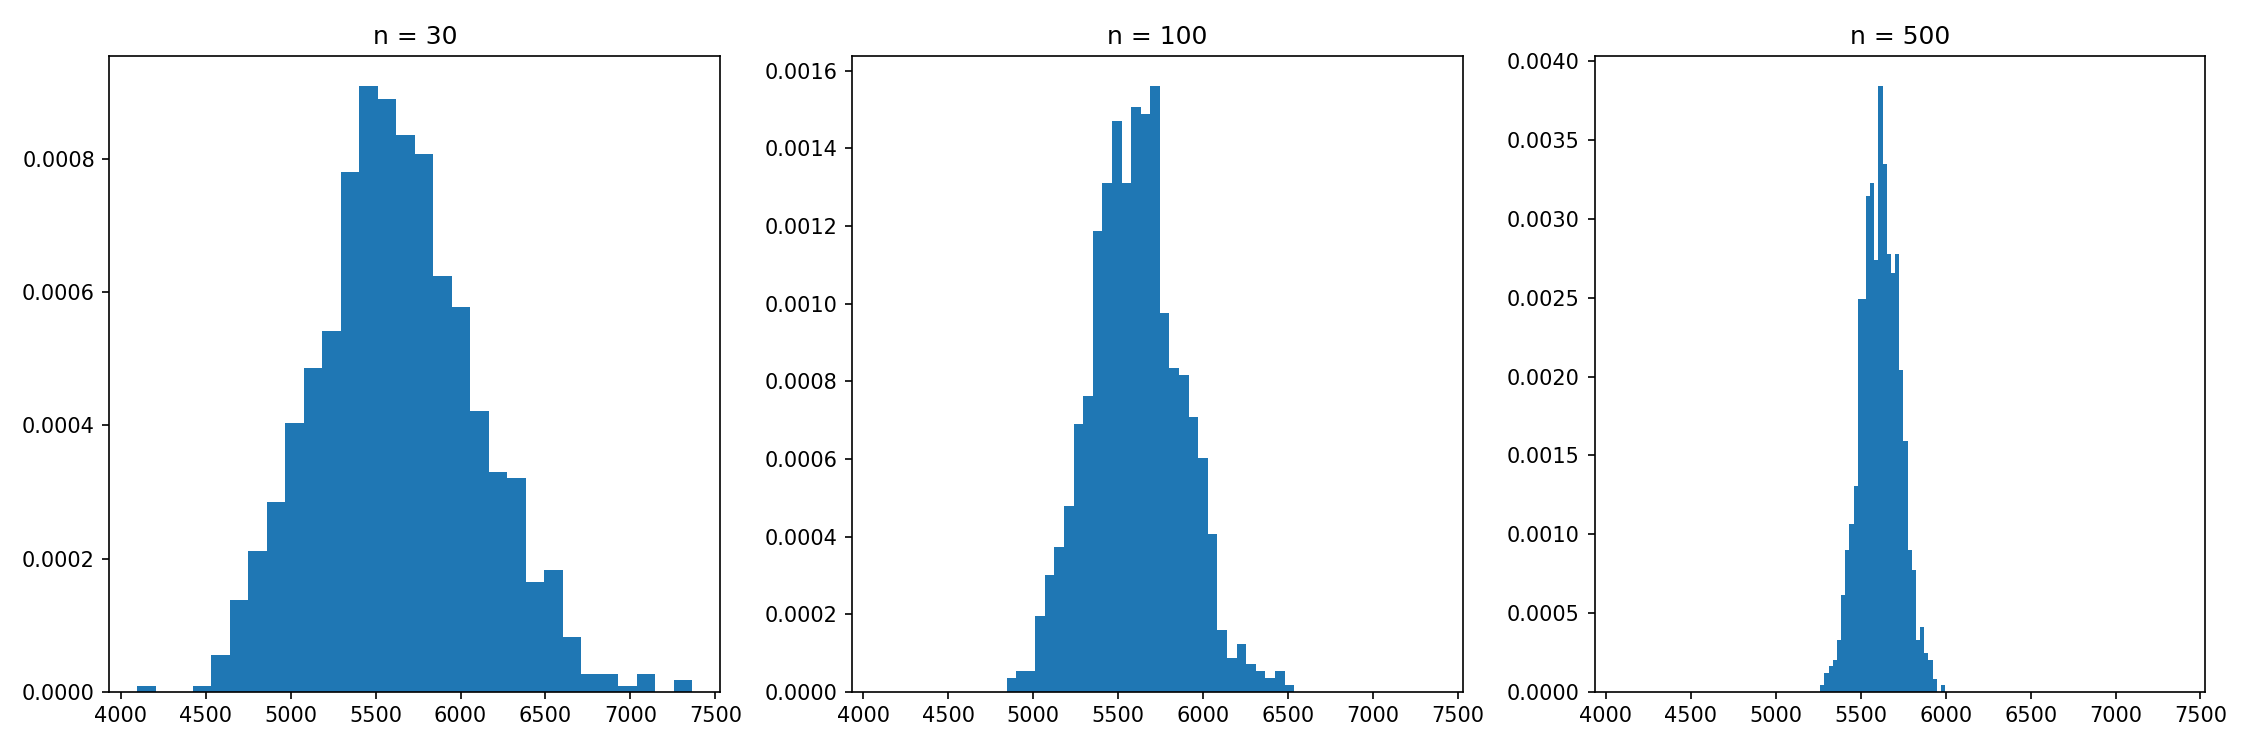
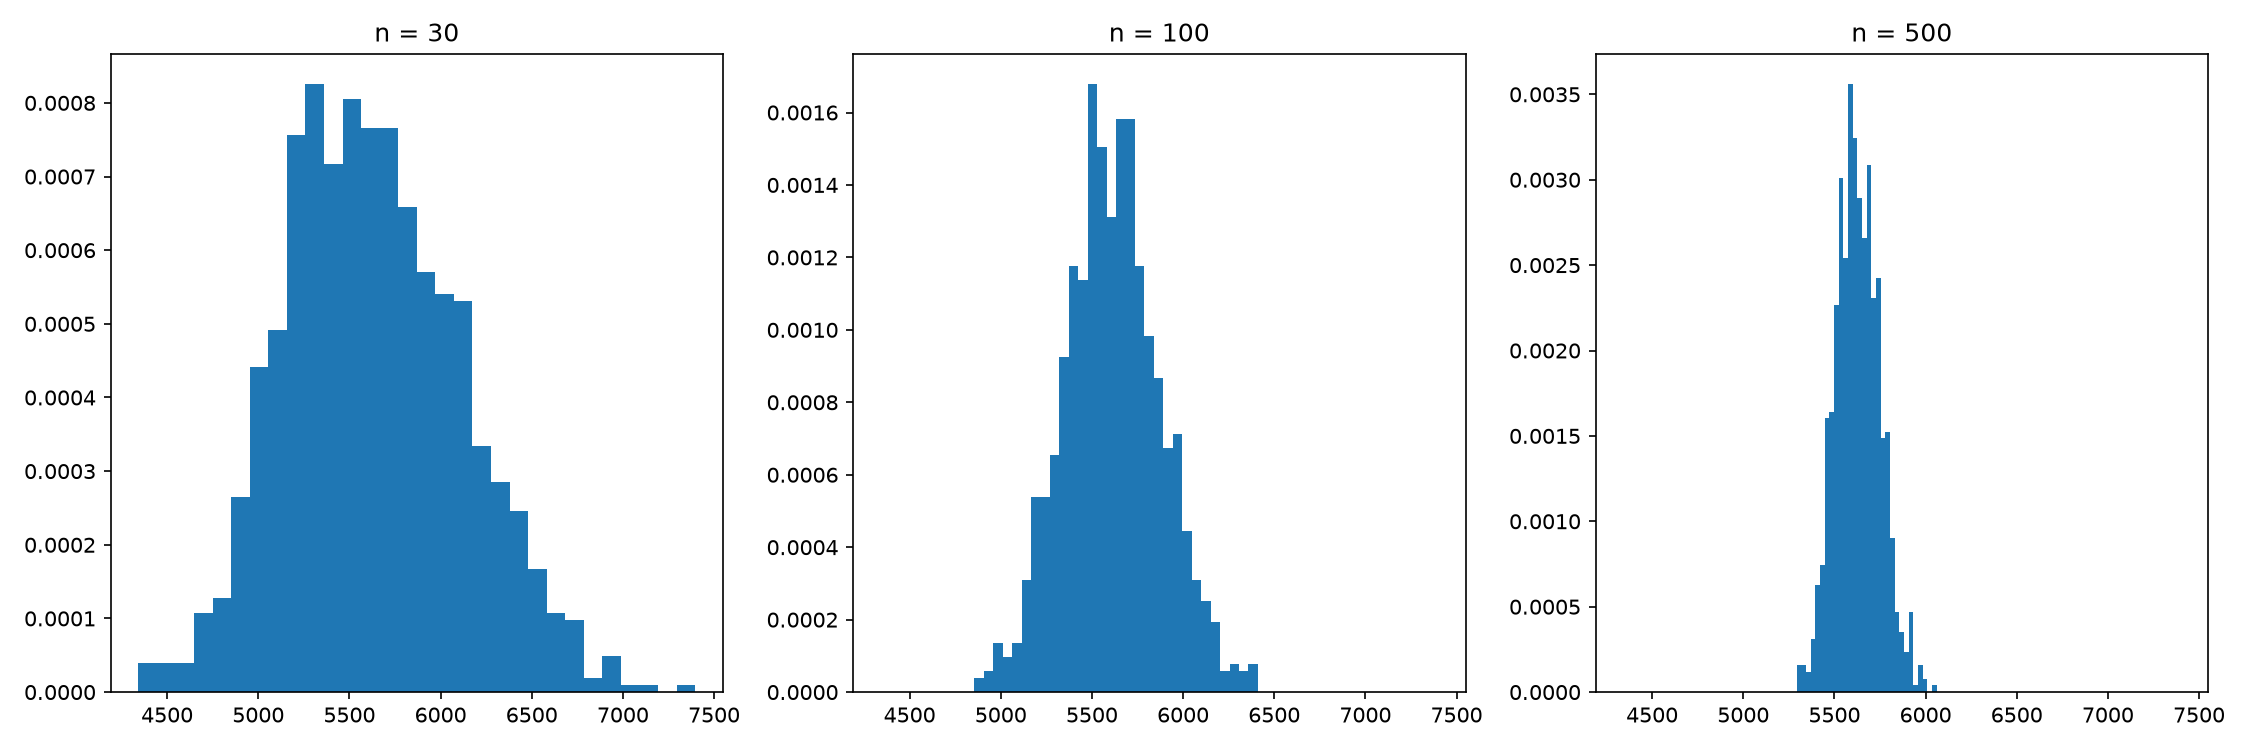
Seed the phase 3 sampling so runs are reproducible
draw_sample and confidence_intervals each build their own
np.random.default_rng(42) and pass it to every .sample() call. The
generator has to live outside the loop: passing random_state=42
directly would draw the same sample 1000 times instead of 1000
reproducible samples. Two consecutive runs now print identical output.

README reports the seeded coverage (94.2 / 93.8 / 94.5) for what it is
-- three figures within Monte Carlo error of each other -- and backs
the systematic undercoverage at n=30 with six independent series
(93.53% mean, range 93.0-93.9) instead of a single run.

Claude-Session: https://claude.ai/code/session_01P6qW9VxkdxpqBFZCDLLJPU

diff --git a/milano_analysis.py b/milano_analysis.py
@@ -553,22 +553,25 @@ def draw_sample(df_clean):
 
     population_std = df_clean['price_per_mq'].std(ddof=0)
 
+    # same seed at every run, but the generator advances at every draw
+    rng = np.random.default_rng(42)
+
     sample_means_30 = []
     sample_means_100 = []
     sample_means_500 = []
 
     for i in range(1000):
-        sample = df_clean.sample(30, replace=False)
+        sample = df_clean.sample(30, replace=False, random_state=rng)
         sample_mean = sample['price_per_mq'].mean()
         sample_means_30.append(sample_mean)
 
     for i in range(1000):
-        sample = df_clean.sample(100, replace=False)
+        sample = df_clean.sample(100, replace=False, random_state=rng)
         sample_mean = sample['price_per_mq'].mean()
         sample_means_100.append(sample_mean)
 
     for i in range(1000):
-        sample = df_clean.sample(500, replace=False)
+        sample = df_clean.sample(500, replace=False, random_state=rng)
         sample_mean = sample['price_per_mq'].mean()
         sample_means_500.append(sample_mean)
 
@@ -614,6 +617,9 @@ def confidence_intervals(df_clean):
     n = [30, 100, 500]
     population_mean = df_clean['price_per_mq'].mean()
 
+    # same seed at every run, but the generator advances at every draw
+    rng = np.random.default_rng(42)
+
     intervals_30 = []
     intervals_100 = []
     intervals_500 = []
@@ -622,7 +628,7 @@ def confidence_intervals(df_clean):
         t_critical = stats.t.ppf(1 - alpha / 2, df=sample_size - 1)
 
         for i in range(1000):
-            sample = df_clean.sample(sample_size, replace=False)
+            sample = df_clean.sample(sample_size, replace=False, random_state=rng)
             sample_mean = sample['price_per_mq'].mean()
             sample_std = sample['price_per_mq'].std()
 

diff --git a/README.md b/README.md
@@ -167,25 +167,37 @@ Una nota di metodo: con n = 16.346 i test formali di normalità (Shapiro-Wilk, D
 
 | n | SE empirico | σ/√n teorico |
 |---|---|---|
-| 30 | € 478,0 | € 482,8 |
-| 100 | € 259,2 | € 264,4 |
-| 500 | € 111,9 | € 118,3 |
+| 30 | € 482,82 | € 482,78 |
+| 100 | € 262,73 | € 264,43 |
+| 500 | € 120,82 | € 118,26 |
 
-Le due colonne coincidono a meno di pochi euro, e la dispersione si dimezza passando da n = 100 a n = 500 quasi esattamente del fattore √5 previsto — su una popolazione con asimmetria 1,83, dove la singola osservazione non è affatto normale. L'istogramma delle medie campionarie è invece simmetrico e campanulare già a n = 30: è il CLT che si vede, non che si cita.
+Le due colonne coincidono a meno di pochi euro — a n = 30 le prime tre cifre sono le stesse — e la dispersione si riduce passando da n = 100 a n = 500 del fattore √5 previsto, su una popolazione con asimmetria 1,83 dove la singola osservazione non è affatto normale. L'istogramma delle medie campionarie è invece simmetrico e campanulare già a n = 30: è il CLT che si vede, non che si cita.
 
-Lo scarto sistematico del SE empirico verso il basso (sempre un po' sotto il teorico, e la cosa si accentua a n = 500) non è rumore: i campioni sono estratti **senza reinserimento** da una popolazione finita, quindi il termine di riferimento esatto è σ/√n corretto per il fattore di popolazione finita √((N−n)/(N−1)), che a n = 500 porta il valore teorico da € 118,3 a € 116,4. Il confronto resta impostato sulla formula standard, perché è quella la formula di cui la fase discute.
+Un termine di confronto più esatto esisterebbe: i campioni sono estratti **senza reinserimento** da una popolazione finita, quindi la formula corretta è σ/√n moltiplicata per il fattore di popolazione finita √((N−n)/(N−1)), che a n = 500 porta il valore teorico da € 118,26 a € 116,40. La correzione è trascurabile perché n resta piccolo rispetto a N = 16.346, e il confronto è lasciato sulla formula standard perché è quella di cui la fase discute.
 
 **Copertura degli intervalli**
 
 | n | copertura osservata |
 |---|---|
-| 30 | ~93% |
-| 100 | ~94-95% |
-| 500 | ~95-96% |
+| 30 | **94,2%** |
+| 100 | **93,8%** |
+| 500 | **94,5%** |
 
-Il risultato più istruttivo della fase è la riga n = 30. La copertura nominale è 95%, ma a n = 30 gli intervalli ne coprono sistematicamente **~93%** — verificato su ripetizioni indipendenti, non è un caso singolo. L'intervallo *t* assume una popolazione normale; qui la popolazione ha asimmetria 1,83 e a n = 30 il CLT non ha ancora finito il suo lavoro, così l'intervallo mantiene meno di quanto promette. A n = 100 e n = 500 la copertura risale a ~95%, come deve. Il livello di confidenza è una proprietà **della procedura sotto le sue assunzioni**, non una garanzia che valga a qualunque numerosità: quando l'assunzione è violata la procedura sotto-copre, e il modo di accorgersene è misurarlo.
+Tutte e tre stanno sotto il 95% nominale, ma la lettura corretta di questa tabella richiede di sapere quanto vale il suo margine d'errore. Ogni copertura è essa stessa una stima, ricavata da 1.000 ripetizioni: il suo errore Monte Carlo vale circa **±0,7 punti**. Le tre cifre sono quindi compatibili sia fra loro sia con il 95%, e **da questa singola esecuzione non si può concludere granché** — men che meno che n = 100 copra peggio di n = 30, che è quello che la tabella sembra dire.
 
-**Nota sulla riproducibilità:** non è fissato alcun seme casuale, quindi i numeri di copertura cambiano di qualche decimo a ogni esecuzione (l'errore Monte Carlo su 1.000 ripetizioni vale circa ±0,7 punti). I valori qui sopra sono riportati come intervalli per questo motivo. Un `random_state` fisso renderebbe la tabella riproducibile alla cifra.
+L'andamento vero si vede solo ripetendo l'intero esperimento. Su **sei serie indipendenti** da 1.000 intervalli ciascuna la copertura media risulta:
+
+| n | media di 6 serie | intervallo osservato |
+|---|---|---|
+| 30 | **93,53%** | 93,0 – 93,9 |
+| 100 | 94,50% | 93,8 – 95,9 |
+| 500 | 95,17% | 94,5 – 96,2 |
+
+Adesso il quadro è leggibile. A n = 30 tutte e sei le serie cadono fra 93,0 e 93,9, senza mai avvicinarsi al 95%: la sotto-copertura è sistematica, e la deviazione standard fra serie (0,35 punti) è troppo piccola perché si tratti di rumore. A n = 500 la media risale a 95,17%, cioè al valore nominale. Serve un ordine di grandezza in più di ripetizioni per vedere emergere dal rumore quello che una sola tabella non può mostrare. La spiegazione è quella attesa — l'intervallo *t* assume una popolazione normale, qui l'asimmetria è 1,83 e a n = 30 il CLT non ha ancora finito il suo lavoro, così l'intervallo mantiene meno di quanto promette — ma è una spiegazione che questa singola tabella **non basta a dimostrare**.
+
+È il risultato metodologico della fase, e vale più di una copertura ordinata: il livello di confidenza è una proprietà **della procedura sotto le sue assunzioni**, e misurarla richiede a sua volta abbastanza dati per distinguere il segnale dal rumore. Portare le ripetizioni da 1.000 a 10.000 ridurrebbe il margine a ±0,2 punti e renderebbe la tabella leggibile per quello che sembra dire.
+
+**Nota sulla riproducibilità:** `draw_sample` e `confidence_intervals` costruiscono ciascuna un generatore `np.random.default_rng(42)` e lo passano a ogni `.sample(...)`. Due esecuzioni consecutive danno output identico riga per riga, verificato. Il generatore va creato **una volta fuori dal ciclo** e lasciato avanzare: passare `random_state=42` direttamente a `.sample()` produrrebbe 1.000 copie dello stesso campione, non 1.000 campioni riproducibili.
 
 ### Phase 4 — Hypothesis Testing
 
